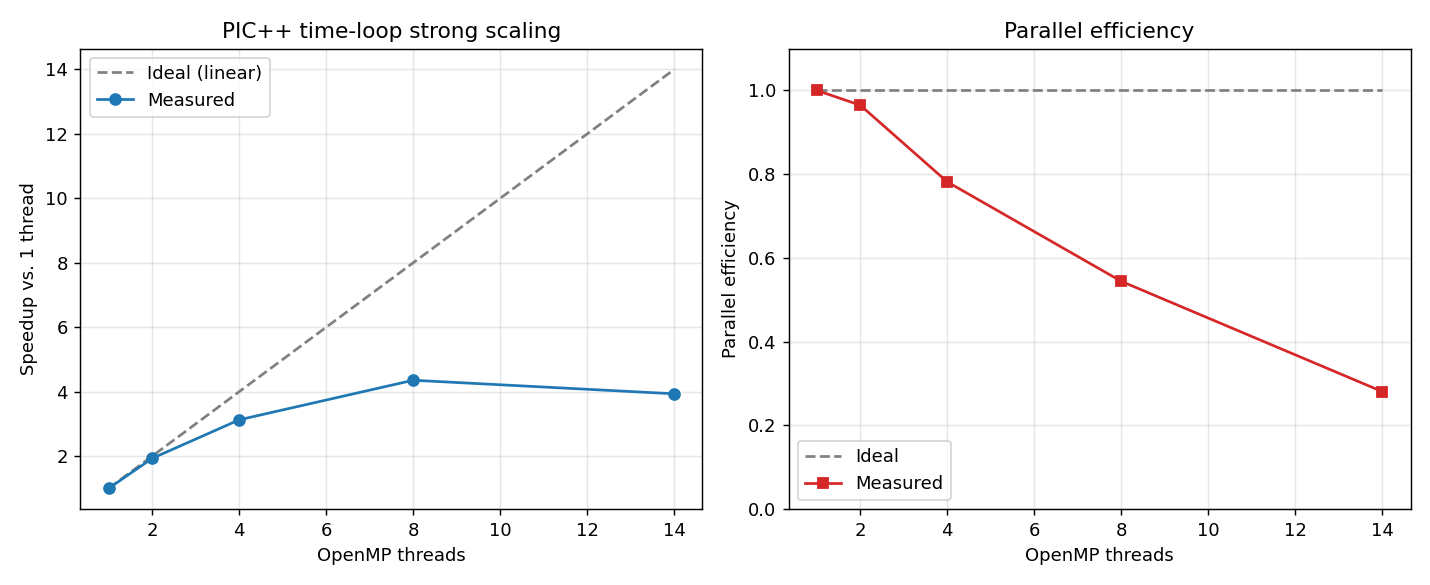
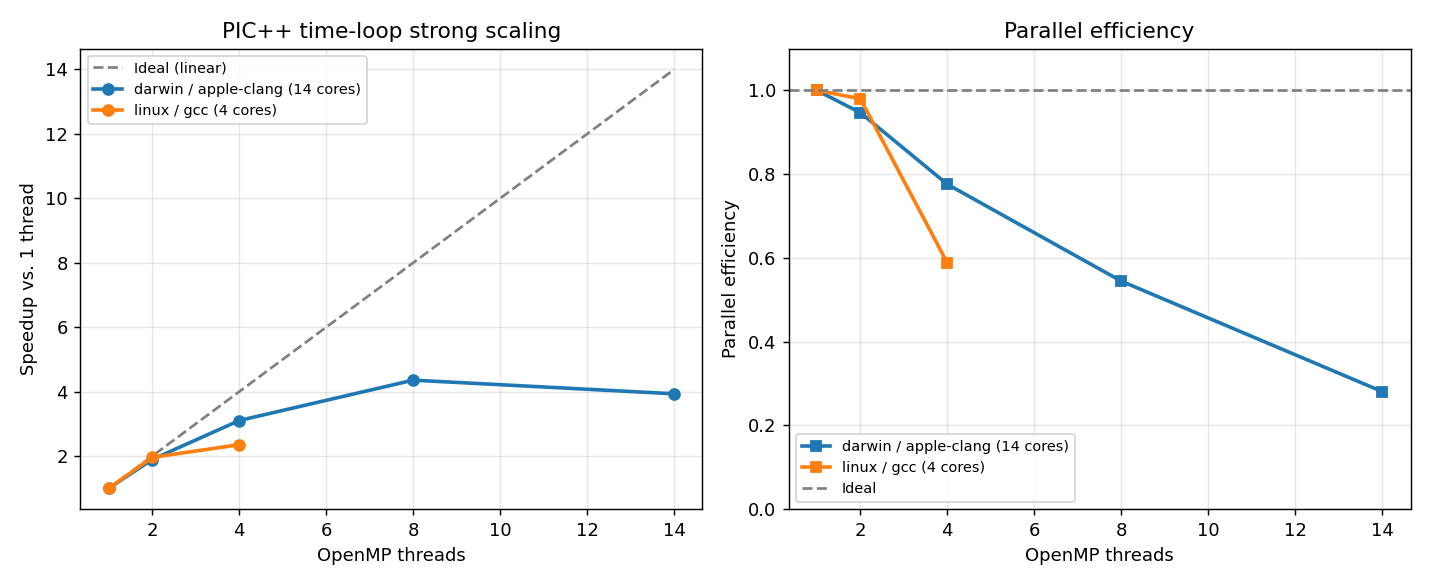
Document Linux GCC strong-scaling results from CI

diff --git a/docs/performance.md b/docs/performance.md
@@ -127,24 +127,41 @@ All OpenMP pragmas are guarded with `#ifdef _OPENMP`, so a build without OpenMP
 
 Fixed problem size (**800,000 particles**, 512 grid cells, 200 steps;
 `framePeriod: 0` so frame I/O doesn't dominate), varying the OpenMP thread count.
-Measured on Apple Silicon (8 performance + efficiency cores).
+Measured on **macOS / AppleClang** (Apple Silicon, 14 logical cores) and
+**Linux / GCC** (GitHub Actions `ubuntu-latest`, 4 vCPUs).
 
 ![OpenMP strong scaling](images/openmp_scaling.png)
 
+### macOS / AppleClang (local)
+
 | Threads | Time loop (µs) | Speedup | Efficiency |
 |--------:|---------------:|--------:|-----------:|
-| 1       | 644,128        | 1.00×   | 100%       |
-| 2       | 346,665        | 1.86×   | 93%        |
-| 4       | 208,176        | 3.09×   | 77%        |
-| 8       | 149,458        | 4.31×   | 54%        |
-| 14      | 166,370        | 3.87×   | 28%        |
+| 1       | 642,165        | 1.00×   | 100%       |
+| 2       | 339,097        | 1.89×   | 95%        |
+| 4       | 206,914        | 3.10×   | 78%        |
+| 8       | 147,396        | 4.36×   | 54%        |
+| 14      | 163,271        | 3.93×   | 28%        |
+
+### Linux / GCC (CI)
+
+| Threads | Time loop (µs) | Speedup | Efficiency |
+|--------:|---------------:|--------:|-----------:|
+| 1       | 1,037,396      | 1.00×   | 100%       |
+| 2       | 529,205        | 1.96×   | 98%        |
+| 4       | 440,881        | 2.35×   | 59%        |
+
+Raw JSON: `results/scaling.json` (local) and `results/scaling_linux.json` (CI).
 
 Observations:
 
-- Near-linear speedup through 2–4 threads (77–93% efficiency).
-- Speedup peaks around the physical performance-core count (~8) and then
-  regresses as work spills onto slower efficiency cores and the run becomes
-  memory-bandwidth bound.
+- Both platforms show near-linear speedup at 2 threads (~95–98% efficiency).
+- macOS continues scaling to **4.36× at 8 threads**, peaking near the
+  performance-core count; efficiency drops past 8 threads as work spills onto
+  slower efficiency cores.
+- Linux GCC reaches **2.35× at 4 threads** on the 4-vCPU CI runner. Absolute
+  single-thread time is higher than Apple Silicon (expected for a shared
+  virtualized runner), and efficiency at 4 threads is lower as the serial FFT
+  fraction and memory bandwidth become the bottleneck on a smaller socket.
 - The residual serial fraction — the FFT-based Poisson field solve
   (`fields`, O(numGrid log numGrid)) and per-step diagnostics — caps the
   achievable speedup per Amdahl's law. On a bandwidth-bound streaming kernel
@@ -174,6 +191,21 @@ An OpenMP-enabled build is required (Linux GCC/Clang ship it; on macOS install
 
 Results are written to `results/scaling.json` and the plot to
 `docs/images/openmp_scaling.png`.
+
+### Linux GCC benchmark (CI)
+
+The workflow `.github/workflows/scaling_linux.yml` builds with GCC inside the
+project's Ubuntu container image and uploads `results/scaling_linux.json`.
+Trigger it manually or let it run on pushes to `main` that touch the solver:
+
+```bash
+gh workflow run scaling_linux.yml
+gh run list --workflow=scaling_linux.yml --limit 1
+gh run download <run-id> -n scaling-linux-json -D results/
+.venv/bin/python scripts/plot_scaling.py
+```
+
+Or use the helper: `./scripts/run_linux_scaling.sh` (wraps `gh workflow run`).
 
 ### Verifying OpenMP is enabled
 